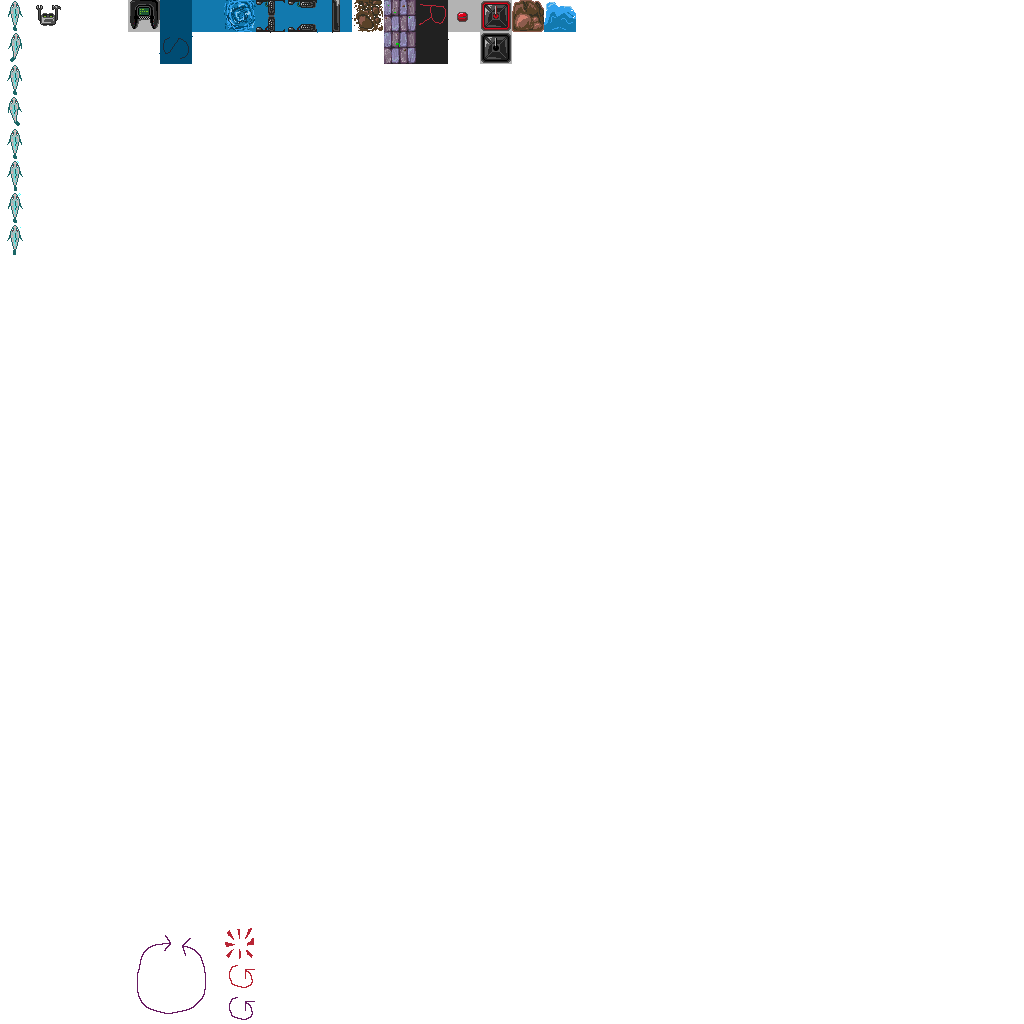
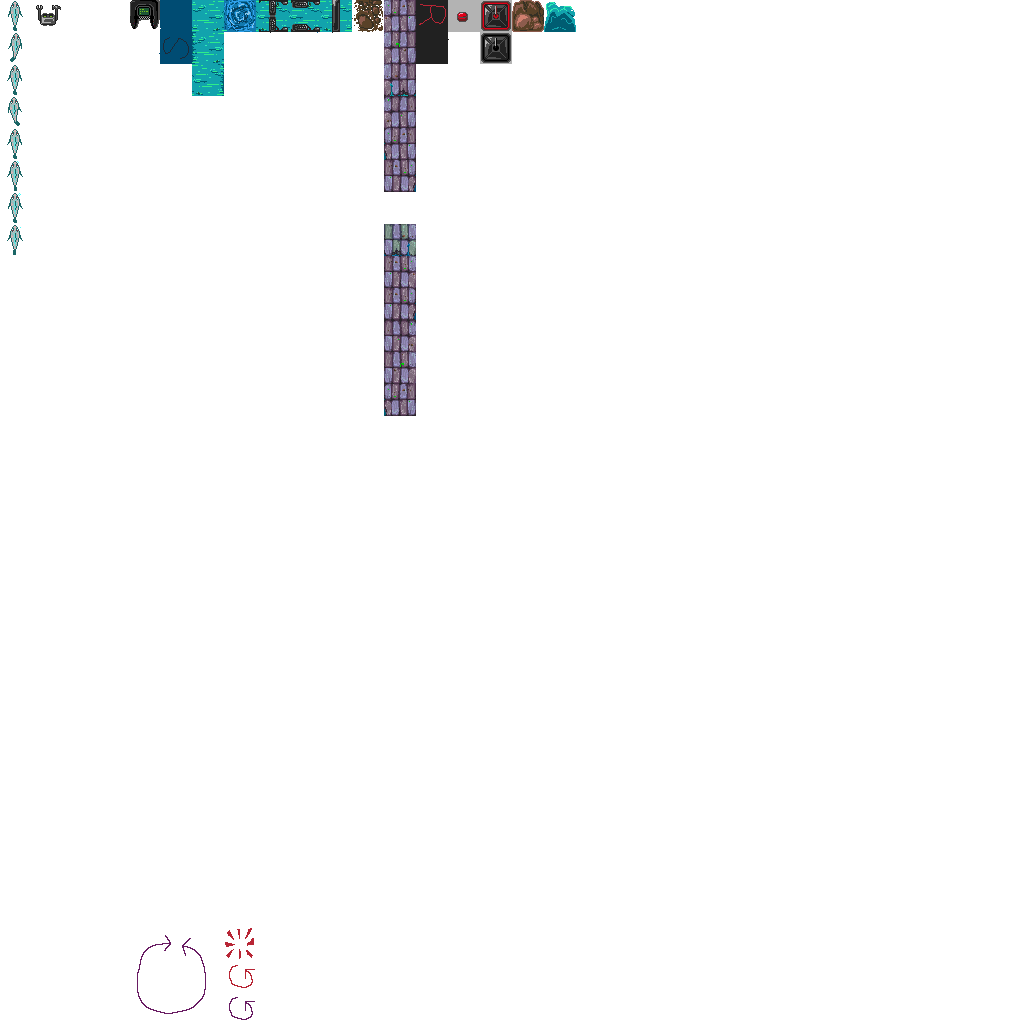
Update Level Stuff

diff --git a/the-salmon-factory/src/com/me/thesalmonfactory/LevelParser.java b/the-salmon-factory/src/com/me/thesalmonfactory/LevelParser.java
@@ -1,18 +1,15 @@
 package com.me.thesalmonfactory;
 
 //import java.io.*;
-import java.io.FileInputStream;
-import java.io.FileNotFoundException;
+import java.io.IOException;
 
-import javax.xml.parsers.DocumentBuilder;
-import javax.xml.parsers.DocumentBuilderFactory;
-import org.w3c.dom.Document;
 import org.w3c.dom.Element;
 import org.w3c.dom.Node;
 import org.w3c.dom.NodeList;
 
 import com.badlogic.gdx.Gdx;
 import com.badlogic.gdx.files.FileHandle;
+import com.badlogic.gdx.utils.Array;
 import com.badlogic.gdx.utils.XmlReader;
 
 public class LevelParser {
@@ -52,79 +49,49 @@ public class LevelParser {
 	public LevelParser(int levelID)
 	{
 		mapMatrix = new int[matrixWidth][matrixHeight][2]; 
-		
-		XmlReader xml = new XmlReader();
-		
-		//In Project: Gdx.files.internal("levels/levels0.xml")
+
 		FileHandle levelFile = Gdx.files.internal("levels/level" + levelID + ".xml");
-		String fileContent = levelFile.readString();
-		//File file = new File(fileContent);
-		
+		XmlReader xml = new XmlReader();
+		XmlReader.Element xml_element = null;
 		try {
-		DocumentBuilderFactory dbFactory = DocumentBuilderFactory.newInstance();
-		DocumentBuilder dBuilder = dbFactory.newDocumentBuilder();
-		Document doc = dBuilder.parse(fileContent);
-		doc.getDocumentElement().normalize();
-
-
-		NodeList layerNodes = doc.getElementsByTagName("layer");
-	
-		int nodesLength = layerNodes.getLength();
-		//System.out.println("Layers found : " + nodesLength);
+			xml_element = xml.parse(levelFile);
+		} catch (IOException e) {
+			// TODO Auto-generated catch block
+			e.printStackTrace();
+		}
 		
-		for (int layerCount = 0; layerCount < nodesLength; layerCount++) {
-			Node currentNode = layerNodes.item(layerCount);
-			//System.out.println("Layer found : " + currentNode.getNodeName());
-
-			Node tempNode = currentNode.getFirstChild();
-			while(tempNode.getNodeName() != "data")
-				tempNode = tempNode.getNextSibling();
+		if(xml_element != null) {
+			Array<com.badlogic.gdx.utils.XmlReader.Element> elements = xml_element.getChildrenByName("layer");
 			
-			//System.out.println("Layer child : " + tempNode.getNodeName());
+			int nodesLength = elements.size;
 			
-			NodeList tileNodes = tempNode.getChildNodes();
-			
-
-			int tileCountX = 0, tileCountY = 0;
-			//System.out.println("Children : " + tileNodes.getLength());
-			
-			
-			
-			for (int i = 0; i < tileNodes.getLength(); i+=2) {
-				Node currentTile = tileNodes.item(i);
+			for (int layerCount = 0; layerCount < nodesLength; layerCount++) {
+				com.badlogic.gdx.utils.XmlReader.Element currentNode = elements.get(layerCount);
+				Array<com.badlogic.gdx.utils.XmlReader.Element> tiles = currentNode.getChild(0).getChildrenByName("tile");
 				
-				while(currentTile != null && currentTile.getNodeName() != "tile")
-				{
-					currentTile = currentTile.getNextSibling();
-				}
+				int tileCountX = 0, tileCountY = 0;
+				
+				int tileSize = tiles.size;
+				for (int i = 0; i < tileSize; i++) {
+					com.badlogic.gdx.utils.XmlReader.Element currentTile = tiles.get(i);
 					
-				
-				//System.out.println(tileCountX + ", " + tileCountY + " Tile found : " + currentTile.getNodeName() + " : " + ((Element) currentTile).getAttribute("gid"));
-
-				Element element = (Element) currentTile;
-				int tempInt = 0;
-				tempInt = Integer.parseInt(element.getAttribute("gid")) - 1;
-				mapMatrix[tileCountX][tileCountY][layerCount] = tempInt;
-				
-				if (tileCountX < matrixWidth - 1)
-					tileCountX++;
-				else
-				{
-	   				tileCountX = 0;
-	   				tileCountY++;
-	   			}
-				if(tileCountY == 8)
-					break;
-				      	
-	  		}
-			//System.out.println("Layer finished !");
-	    }
-
-		//System.out.println("Finished parsing, displaying the matrix.");
-		//displayMatrix();
-		} catch (Exception ex) {
-			ex.printStackTrace();
-			}
+					int tempInt = 0;
+					tempInt = Integer.parseInt(currentTile.getAttribute("gid")) - 1;
+					mapMatrix[tileCountX][tileCountY][layerCount] = tempInt;
+					
+					if (tileCountX < matrixWidth - 1)
+						tileCountX++;
+					else
+					{
+		   				tileCountX = 0;
+		   				tileCountY++;
+		   			}
+					if(tileCountY == 8)
+						break;
+					      	
+		  		}
+		    }
+		}
 	}
 			
 

diff --git a/the-salmon-factory/src/com/me/thesalmonfactory/helpers/GameContext.java b/the-salmon-factory/src/com/me/thesalmonfactory/helpers/GameContext.java
@@ -14,11 +14,15 @@ public class GameContext {
 	public static final int HOR_TILES = 32;
 	
 	private Texture m_Spritesheet;
+	private int m_OffsetX, m_OffsetY;
 	
 	public void Initialize()
 	{
 		m_Spritesheet = new Texture(Gdx.files.internal("img/tilesheet-32.png"));
 		TILE_WIDTH = (Gdx.app.getGraphics().getHeight() - 50 ) / 8;
+		
+		m_OffsetX = ( Gdx.app.getGraphics().getWidth() - 13 * TILE_WIDTH ) / 2;
+		m_OffsetY = ( Gdx.app.getGraphics().getHeight() - 8 * TILE_WIDTH ) / 2;
 	}
 	
 	public void Dispose()
@@ -29,10 +33,13 @@ public class GameContext {
 	
 	public void DrawTile(int x, int y, int id)
 	{
-		float uvExtra = 32.0f / 1024.0f;
-		float u = ((id % HOR_TILES) * TILE_WIDTH) / 1024.0f;
-		float v = ((id / HOR_TILES) * TILE_WIDTH) / 1024.0f;
-		Batch.draw(m_Spritesheet, x, y, TILE_WIDTH, TILE_WIDTH, 
-				u, v, u + uvExtra, v + uvExtra);
+		//float uvExtra = 32.0f / 1024.0f;
+		//float u = () / 1024.0f;
+		//float v = ((id / HOR_TILES) * 32) / 1024.0f;
+		//Batch.draw(m_Spritesheet, x, y, TILE_WIDTH, TILE_WIDTH, 
+			//	u, v, u + uvExtra, v + uvExtra, false, true);
+		Batch.draw(m_Spritesheet, x + m_OffsetX, 
+				Gdx.app.getGraphics().getHeight() - y - Gdx.app.getGraphics().getHeight() / 7 - m_OffsetY, TILE_WIDTH, TILE_WIDTH, 
+				(id % HOR_TILES) * 32, (id / HOR_TILES) * 32, 32, 32, false, false);
 	}
 }

diff --git a/the-salmon-factory/src/com/me/thesalmonfactory/Game.java b/the-salmon-factory/src/com/me/thesalmonfactory/Game.java
@@ -1,7 +1,10 @@
 package com.me.thesalmonfactory;
 
+import com.badlogic.gdx.Gdx;
 import com.me.thesalmonfactory.helpers.GameContext;
 import com.me.thesalmonfactory.helpers.ObjectManager;
+import com.me.thesalmonfactory.objects.DORobot;
+import com.me.thesalmonfactory.objects.DOSalmon;
 
 public class Game implements ScreenInterface {
 	
@@ -62,6 +65,22 @@ public class Game implements ScreenInterface {
 	}
 	
 	public void ProcessActionCircle(int x, int y) {
-		
+		if(x < 50 && y < 50) {
+			CreateNewSalmon(x,y);
+		} 
+		else if(x > Gdx.app.getGraphics().getWidth() - 50 &&
+			y > Gdx.app.getGraphics().getHeight() - 50) {
+			CreateNewRobot(x,y);
+		}
+	}
+	
+	public void CreateNewSalmon(int x, int y) {
+		DOSalmon salmon = new DOSalmon(x + 100, y + 100);
+		m_ObjectManager.AddObject(salmon);
+	}
+	
+	public void CreateNewRobot(int x, int y) {
+		DORobot robot = new DORobot(x - 100, y - 100);
+		m_ObjectManager.AddObject(robot);
 	}
 }

diff --git a/the-salmon-factory/src/com/me/thesalmonfactory/Level.java b/the-salmon-factory/src/com/me/thesalmonfactory/Level.java
@@ -20,10 +20,10 @@ public class Level {
 		{
 			for(int j = 0 ; j < LevelParser.matrixWidth ; j++)
 			{
-				Gdx.app.log("Test", "ID == " + currentLvl.mapMatrix[j][i][0]);
-				context.DrawTile((int)(j * GameContext.TILE_WIDTH), 
-				(int)(i * GameContext.TILE_WIDTH), currentLvl.mapMatrix[j][i][0]);
-				//context.DrawTile(j, i, currentLvl.mapMatrix[j][i][1]);
+				context.DrawTile((int)(j * GameContext.TILE_WIDTH), (int)(i * GameContext.TILE_WIDTH), 
+				currentLvl.mapMatrix[j][i][0]);
+				context.DrawTile((int)(j * GameContext.TILE_WIDTH), (int)(i * GameContext.TILE_WIDTH), 
+				currentLvl.mapMatrix[j][i][1]);
 			}
 		}
 	}

diff --git a/the-salmon-factory/src/com/me/thesalmonfactory/objects/DOSalmon.java b/the-salmon-factory/src/com/me/thesalmonfactory/objects/DOSalmon.java
@@ -25,6 +25,7 @@ public class DOSalmon extends  DragObject {
 	public void Draw(GameContext context) {
 		// TODO Auto-generated method stub
 		super.Draw(context);
+		context.DrawTile((int)m_Position.x, (int)m_Position.y, SALMON_ID);
 	}
 
 	@Override

diff --git a/the-salmon-factory/src/com/me/thesalmonfactory/objects/DORobot.java b/the-salmon-factory/src/com/me/thesalmonfactory/objects/DORobot.java
@@ -25,6 +25,7 @@ public class DORobot extends  DragObject {
 	public void Draw(GameContext context) {
 		// TODO Auto-generated method stub
 		super.Draw(context);
+		context.DrawTile((int)m_Position.x, (int)m_Position.y, ROBOT_ID);
 	}
 
 	@Override
